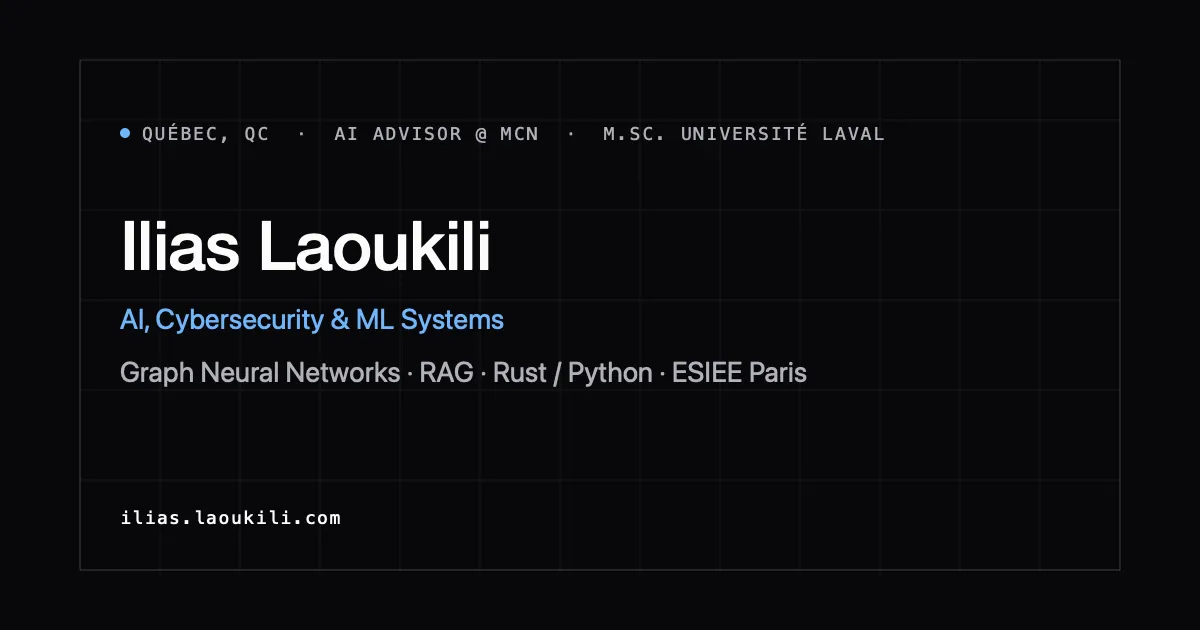
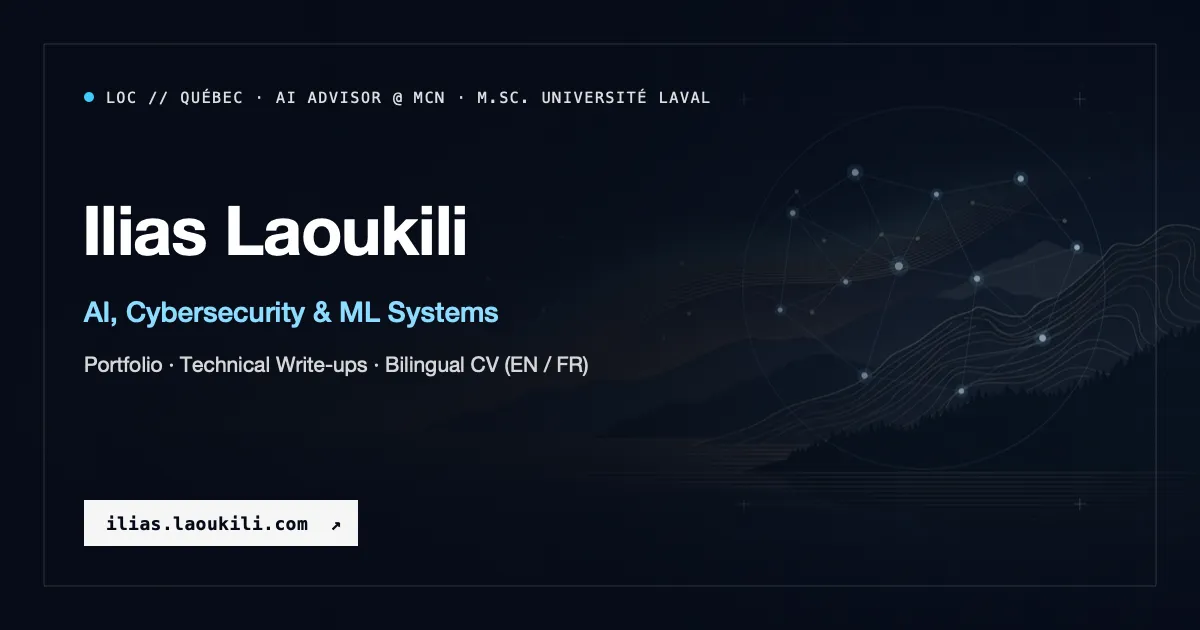
Add high-contrast OpenGraph social cards for portfolio and plekton

diff --git a/app/[locale]/blog/[slug]/page.tsx b/app/[locale]/blog/[slug]/page.tsx
@@ -33,7 +33,13 @@ export async function generateMetadata({ params }: Props): Promise<Metadata> {
         return { title: "Post Not Found" };
     }
 
-    const url = `${SITE_URL}/${locale}/blog/${params.slug}`;
+    const url = `${SITE_URL}/${locale}/blog/${params.slug}/`;
+    const ogImage =
+        params.slug === "plekton"
+            ? `${SITE_URL}/images/og-plekton.png`
+            : post.mainImage
+              ? `${SITE_URL}${post.mainImage}`
+              : `${SITE_URL}/images/og-image.png`;
 
     return {
         title: post.title,
@@ -50,9 +56,9 @@ export async function generateMetadata({ params }: Props): Promise<Metadata> {
             url,
             images: [
                 {
-                    url: post.mainImage || "/images/og-image.png",
-                    width: 1200,
-                    height: 630,
+                    url: ogImage,
+                    width: 1280,
+                    height: 640,
                     alt: post.title,
                 },
             ],
@@ -61,13 +67,13 @@ export async function generateMetadata({ params }: Props): Promise<Metadata> {
             card: "summary_large_image",
             title: post.title,
             description: post.excerpt,
-            images: [post.mainImage || "/images/og-image.png"],
+            images: [ogImage],
         },
         alternates: {
             canonical: url,
             languages: {
-                en: `${SITE_URL}/en/blog/${params.slug}`,
-                fr: `${SITE_URL}/fr/blog/${params.slug}`,
+                en: `${SITE_URL}/en/blog/${params.slug}/`,
+                fr: `${SITE_URL}/fr/blog/${params.slug}/`,
             },
         },
     };

diff --git a/app/[locale]/page.tsx b/app/[locale]/page.tsx
@@ -29,14 +29,29 @@ export async function generateMetadata({ params }: HomePageParams): Promise<Meta
         openGraph: {
             title,
             description,
-            url: `${SITE_URL}/${locale}`,
+            url: `${SITE_URL}/${locale}/`,
             locale: isFr ? "fr_CA" : "en_US",
+            type: "website",
+            images: [
+                {
+                    url: `${SITE_URL}/images/og-image.png`,
+                    width: 1200,
+                    height: 630,
+                    alt: title,
+                },
+            ],
+        },
+        twitter: {
+            card: "summary_large_image",
+            title,
+            description,
+            images: [`${SITE_URL}/images/og-image.png`],
         },
         alternates: {
-            canonical: `${SITE_URL}/${locale}`,
+            canonical: `${SITE_URL}/${locale}/`,
             languages: {
-                en: `${SITE_URL}/en`,
-                fr: `${SITE_URL}/fr`,
+                en: `${SITE_URL}/en/`,
+                fr: `${SITE_URL}/fr/`,
             },
         },
     };
